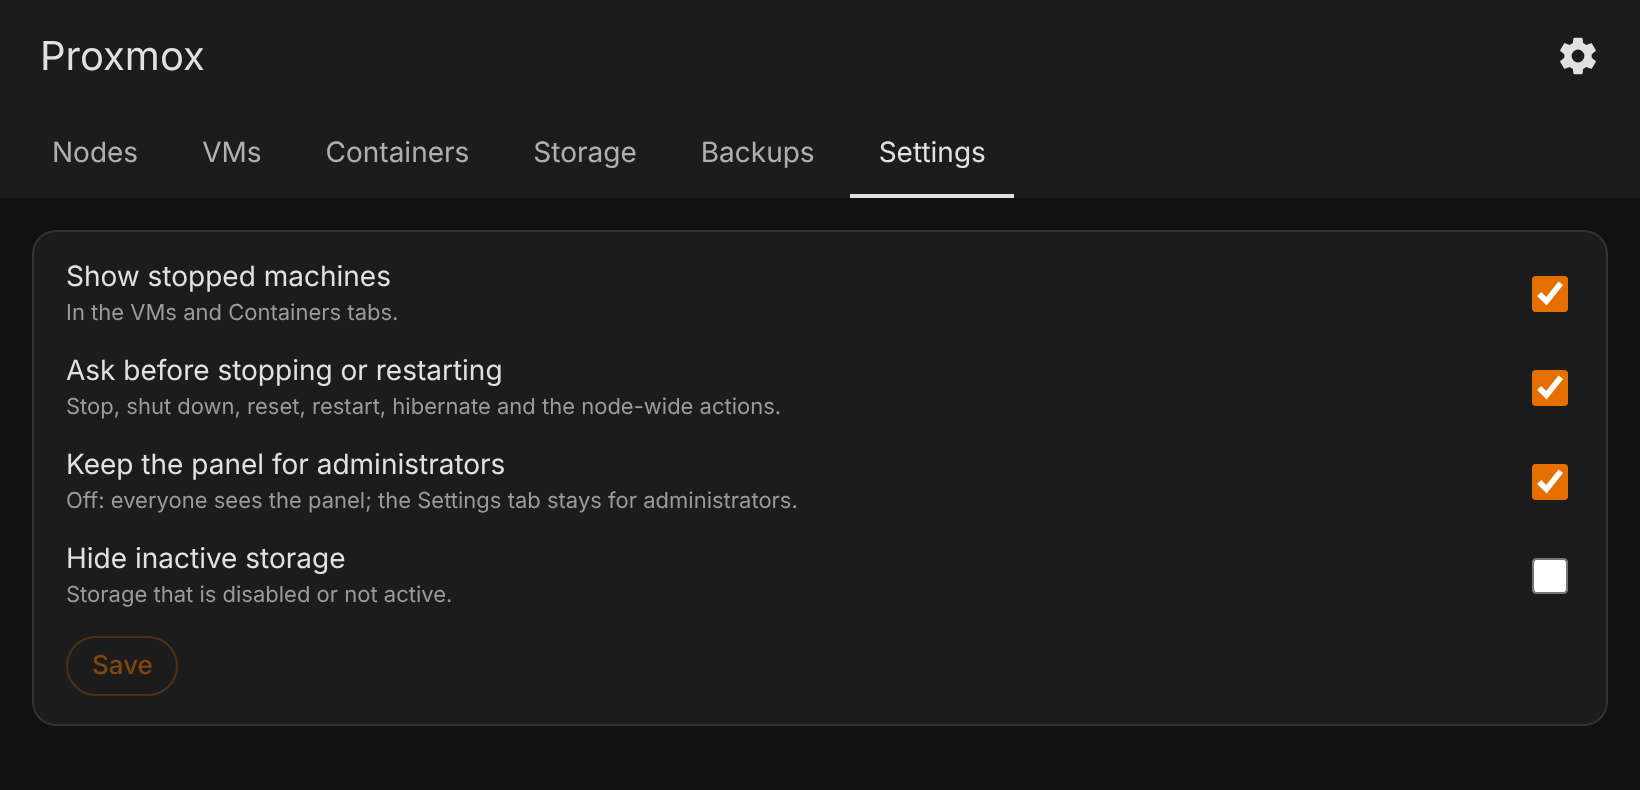
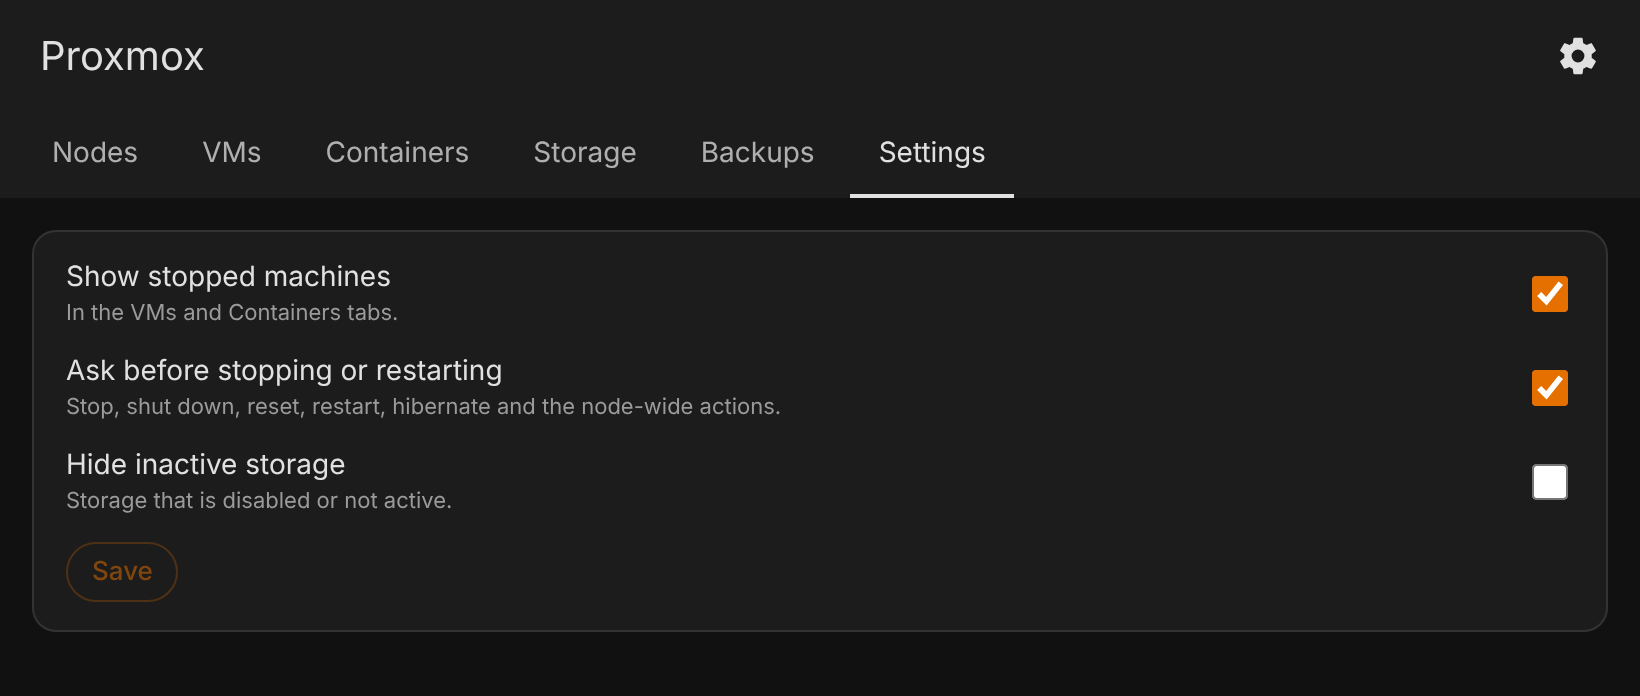
feat: panel for administrators only, always (0.2.0)
The admin_only setting is gone: the panel is registered with require_admin and the inventory command
refuses other users, like the settings commands. A stored admin_only option is no longer read.

Claude-Session: https://claude.ai/code/session_01F4sAmzN16Madqv67q6Pxqj

diff --git a/custom_components/proxmox_panel/frontend/proxmox-panel.js b/custom_components/proxmox_panel/frontend/proxmox-panel.js
@@ -13,12 +13,13 @@
  * - Storage: one gauge per storage, with its active / shared state;
  * - Backups: the last backup of each node (its sensors are disabled by default in the integration) and a manual
  *   snapshot of each machine;
- * - Settings (administrators): stopped machines shown or not, confirmation of the actions that stop or restart,
- *   panel kept for administrators, inactive storage hidden.
+ * - Settings: stopped machines shown or not, confirmation of the actions that stop or restart, inactive storage
+ *   hidden.
+ * The panel is for administrators only (registered with require_admin, its commands too).
  * English is built in; the other languages are loaded on demand from /proxmox_panel/i18n/<lang>.json.
  */
 
-const PROXMOX_PANEL_VERSION = "0.1.0";
+const PROXMOX_PANEL_VERSION = "0.2.0";
 const PROXMOX_PANEL_TABS = ["nodes", "vms", "containers", "storage", "backups", "settings"];
 const PROXMOX_PANEL_LANGS = ["en", "fr", "de", "es", "sr", "sr-Latn", "it", "nl", "pt", "pl", "ro", "da", "sv", "bg", "ru", "uk", "hu", "sk", "cs", "sl", "lv", "el"];
 // Actions that stop or restart something: confirmed first when the setting asks for it
@@ -114,8 +115,6 @@ const PROXMOX_PANEL_EN = {
   s_show_stopped_hint: "In the VMs and Containers tabs.",
   s_confirm: "Ask before stopping or restarting",
   s_confirm_hint: "Stop, shut down, reset, restart, hibernate and the node-wide actions.",
-  s_admin: "Keep the panel for administrators",
-  s_admin_hint: "Off: everyone sees the panel; the Settings tab stays for administrators.",
   s_hide_storage: "Hide inactive storage",
   s_hide_storage_hint: "Storage that is disabled or not active.",
   save: "Save",
@@ -561,8 +560,7 @@ class ProxmoxPanel extends HTMLElement {
   // ── Tabs ──
 
   _tabs() {
-    // Settings only for administrators
-    return PROXMOX_PANEL_TABS.filter((t) => t !== "settings" || this._inv?.admin !== false);
+    return PROXMOX_PANEL_TABS;
   }
 
   _goTab(tab, focus) {
@@ -603,7 +601,7 @@ class ProxmoxPanel extends HTMLElement {
       <div class="toolbar">
         <ha-menu-button></ha-menu-button>
         <span class="grow">${esc(this._t("title"))}</span>
-        ${this._inv?.admin === false ? "" : `<a href="/config/integrations/integration/proxmoxve" title="${esc(this._t("open_integration"))}" aria-label="${esc(this._t("open_integration"))}">${proxmoxPanelIcon("cog")}</a>`}
+        <a href="/config/integrations/integration/proxmoxve" title="${esc(this._t("open_integration"))}" aria-label="${esc(this._t("open_integration"))}">${proxmoxPanelIcon("cog")}</a>
       </div>
       <div class="tabs" role="tablist">${tabs
         .map((tab) => {
@@ -996,7 +994,6 @@ class ProxmoxPanel extends HTMLElement {
     return `<div class="box form">
         ${toggle("show_stopped", "s_show_stopped")}
         ${toggle("confirm_actions", "s_confirm")}
-        ${toggle("admin_only", "s_admin")}
         ${toggle("hide_inactive_storage", "s_hide_storage")}
         <div class="bar-save"><button class="act" data-action="save"${changed ? "" : " disabled"}>${esc(this._t("save"))}</button>
           ${this._saved ? `<span class="note good" role="status">${esc(this._t("saved"))}</span>` : ""}</div></div>`;

diff --git a/custom_components/proxmox_panel/panel.py b/custom_components/proxmox_panel/panel.py
@@ -3,9 +3,10 @@
 The panel (``frontend/proxmox-panel.js``) has six tabs: Nodes, Virtual machines, Containers, Storage, Backups and
 Settings. It reads the states of the Proxmox VE entities and acts by pressing their buttons, so it only needs:
 
-- ``proxmox_panel/inventory``: the nodes, virtual machines, containers and storages with their entity ids
-  (administrators, or everyone when the panel is not kept for administrators);
-- ``proxmox_panel/settings`` / ``proxmox_panel/update_settings``: the settings (options of the entry), administrators.
+- ``proxmox_panel/inventory``: the nodes, virtual machines, containers and storages with their entity ids;
+- ``proxmox_panel/settings`` / ``proxmox_panel/update_settings``: the settings (options of the entry).
+
+The panel and its commands are for administrators only.
 """
 
 from __future__ import annotations
@@ -18,7 +19,6 @@ from homeassistant.config_entries import ConfigEntry
 from homeassistant.core import HomeAssistant, callback
 
 from .const import (
-    CONF_ADMIN_ONLY,
     DEFAULTS,
     DOMAIN,
     PANEL_ICON,
@@ -31,8 +31,9 @@ from .discovery import async_inventory
 
 
 def settings(entry: ConfigEntry | None) -> dict[str, Any]:
-    """The settings, defaults filled in."""
-    return {**DEFAULTS, **(entry.options if entry else {})}
+    """The settings, defaults filled in (an option no longer offered is left out)."""
+    options = entry.options if entry else {}
+    return {key: options.get(key, default) for key, default in DEFAULTS.items()}
 
 
 def _entry(hass: HomeAssistant) -> ConfigEntry | None:
@@ -40,8 +41,8 @@ def _entry(hass: HomeAssistant) -> ConfigEntry | None:
     return entries[0] if entries else None
 
 
-async def async_register_panel(hass: HomeAssistant, entry: ConfigEntry) -> None:
-    """Add Proxmox to the sidebar, for administrators only unless the settings open it to everyone."""
+async def async_register_panel(hass: HomeAssistant) -> None:
+    """Add Proxmox to the sidebar, for administrators only."""
     await panel_custom.async_register_panel(
         hass,
         frontend_url_path=PANEL_PATH,
@@ -49,7 +50,7 @@ async def async_register_panel(hass: HomeAssistant, entry: ConfigEntry) -> None:
         sidebar_title=PANEL_TITLE,
         sidebar_icon=PANEL_ICON,
         module_url=f"{PANEL_URL}?v={VERSION}",
-        require_admin=settings(entry)[CONF_ADMIN_ONLY],
+        require_admin=True,
         config={"version": VERSION},
     )
 
@@ -62,15 +63,10 @@ def async_register_commands(hass: HomeAssistant) -> None:
 
 
 @websocket_api.websocket_command({vol.Required("type"): f"{DOMAIN}/inventory"})
+@websocket_api.require_admin
 @callback
 def _ws_inventory(hass: HomeAssistant, connection: websocket_api.ActiveConnection, msg: dict) -> None:
-    current = settings(_entry(hass))
-    if current[CONF_ADMIN_ONLY] and not connection.user.is_admin:
-        connection.send_error(msg["id"], websocket_api.ERR_UNAUTHORIZED, "Administrators only")
-        return
-    connection.send_result(
-        msg["id"], {**async_inventory(hass).as_dict(), "settings": current, "admin": connection.user.is_admin}
-    )
+    connection.send_result(msg["id"], {**async_inventory(hass).as_dict(), "settings": settings(_entry(hass))})
 
 
 @websocket_api.websocket_command({vol.Required("type"): f"{DOMAIN}/settings"})

diff --git a/tests/test_init.py b/tests/test_init.py
@@ -45,38 +45,35 @@ async def test_inventory_command(hass: HomeAssistant, hass_ws_client):
     assert res["success"]
     assert res["result"]["configured"] is False
     assert res["result"]["settings"] == DEFAULTS
-    assert res["result"]["admin"] is True
 
 
-async def test_inventory_kept_for_administrators(hass: HomeAssistant, hass_ws_client, hass_admin_user):
-    entry = await _setup(hass)
+async def test_administrators_only(hass: HomeAssistant, hass_ws_client, hass_admin_user):
+    # An option of 0.1.0 opened the panel to everyone: it is no longer read
+    await _setup(hass, options={**DEFAULTS, "admin_only": False})
+    assert hass.data["frontend_panels"][PANEL_PATH].require_admin is True
     hass_admin_user.groups = []  # no longer an administrator
     client = await hass_ws_client(hass)
-    await client.send_json_auto_id({"type": f"{DOMAIN}/inventory"})
-    res = await client.receive_json()
-    assert not res["success"] and res["error"]["code"] == "unauthorized"
-
-    hass.config_entries.async_update_entry(entry, options={**DEFAULTS, "admin_only": False})
-    await hass.async_block_till_done()
-    await client.send_json_auto_id({"type": f"{DOMAIN}/inventory"})
-    res = await client.receive_json()
-    assert res["success"] and res["result"]["admin"] is False
+    for command in ("inventory", "settings", "update_settings"):
+        await client.send_json_auto_id({"type": f"{DOMAIN}/{command}"})
+        res = await client.receive_json()
+        assert not res["success"] and res["error"]["code"] == "unauthorized", command
 
 
-async def test_update_settings_registers_the_panel_again(hass: HomeAssistant, hass_ws_client):
-    entry = await _setup(hass)
+async def test_update_settings(hass: HomeAssistant, hass_ws_client):
+    entry = await _setup(hass, options={**DEFAULTS, "admin_only": False})
     client = await hass_ws_client(hass)
-    await client.send_json_auto_id({"type": f"{DOMAIN}/update_settings", "admin_only": False, "show_stopped": False})
+    await client.send_json_auto_id({"type": f"{DOMAIN}/update_settings", "show_stopped": False})
     res = await client.receive_json()
     assert res["success"] and res["result"]["ok"]
     await hass.async_block_till_done()
-    assert entry.options["admin_only"] is False and entry.options["show_stopped"] is False
-    assert hass.data["frontend_panels"][PANEL_PATH].require_admin is False
+    assert dict(entry.options) == {**DEFAULTS, "show_stopped": False}
+    assert hass.data["frontend_panels"][PANEL_PATH].require_admin is True
 
     await client.send_json_auto_id({"type": f"{DOMAIN}/settings"})
     res = await client.receive_json()
-    assert res["result"]["settings"]["show_stopped"] is False
+    assert res["result"]["settings"] == {**DEFAULTS, "show_stopped": False}
 
-    await client.send_json_auto_id({"type": f"{DOMAIN}/update_settings", "unknown": True})
-    res = await client.receive_json()
-    assert not res["success"]
+    for bad in ({"admin_only": False}, {"unknown": True}):
+        await client.send_json_auto_id({"type": f"{DOMAIN}/update_settings", **bad})
+        res = await client.receive_json()
+        assert not res["success"], bad

diff --git a/custom_components/proxmox_panel/const.py b/custom_components/proxmox_panel/const.py
@@ -1,7 +1,7 @@
 """Constants for the Proxmox Panel integration."""
 
 DOMAIN = "proxmox_panel"
-VERSION = "0.1.0"
+VERSION = "0.2.0"
 
 # The core Proxmox VE integration, whose devices and entities the panel shows
 PROXMOX_DOMAIN = "proxmoxve"
@@ -17,14 +17,13 @@ PANEL_TITLE = "Proxmox"
 PANEL_ICON = "proxmox_panel:logo"
 ICONS_URL = f"{URL_BASE}/proxmox-icons.js"
 
-# Settings (options of the config entry), edited in the panel's Settings tab
+# Settings (options of the config entry), edited in the panel's Settings tab. The panel is always for
+# administrators only: no setting opens it to other users.
 CONF_SHOW_STOPPED = "show_stopped"
 CONF_CONFIRM_ACTIONS = "confirm_actions"
-CONF_ADMIN_ONLY = "admin_only"
 CONF_HIDE_INACTIVE_STORAGE = "hide_inactive_storage"
 DEFAULTS = {
     CONF_SHOW_STOPPED: True,
     CONF_CONFIRM_ACTIONS: True,
-    CONF_ADMIN_ONLY: True,
     CONF_HIDE_INACTIVE_STORAGE: False,
 }

diff --git a/custom_components/proxmox_panel/__init__.py b/custom_components/proxmox_panel/__init__.py
@@ -35,9 +35,8 @@ async def async_setup(hass: HomeAssistant, config: ConfigType) -> bool:
 
 
 async def async_setup_entry(hass: HomeAssistant, entry: ConfigEntry) -> bool:
-    """Add the panel to the sidebar; settings changes register it again (who may open it)."""
-    await async_register_panel(hass, entry)
-    entry.async_on_unload(entry.add_update_listener(_async_options_updated))
+    """Add the panel to the sidebar (administrators only)."""
+    await async_register_panel(hass)
     return True
 
 
@@ -45,8 +44,3 @@ async def async_unload_entry(hass: HomeAssistant, entry: ConfigEntry) -> bool:
     """Remove the panel from the sidebar."""
     frontend.async_remove_panel(hass, PANEL_PATH)
     return True
-
-
-async def _async_options_updated(hass: HomeAssistant, entry: ConfigEntry) -> None:
-    frontend.async_remove_panel(hass, PANEL_PATH)
-    await async_register_panel(hass, entry)

diff --git a/README.md b/README.md
@@ -23,7 +23,8 @@ Home Assistant integration that adds a **Proxmox** panel to the sidebar, on top 
 - **Storage**: one gauge per storage (green, amber from 75 %, red from 90 %), with used, free and total space, and its active and shared state
 - **Backups**: the last backup of each node, how long it took and whether it failed, and a manual **Snapshot** of each virtual machine and container
 - **Confirmation** before the actions that stop or restart something (stop, shut down, reset, restart, hibernate, node-wide actions), at the top of the list
-- **Settings** (administrators): stopped machines shown or not, the confirmation, the panel kept for administrators or opened to everyone (the Settings tab stays for administrators), inactive storage hidden
+- **Settings**: stopped machines shown or not, the confirmation, inactive storage hidden
+- **Administrators only**: the panel and its commands are kept for administrators
 - The **Proxmox logo** as the sidebar icon
 - Light and dark themes, phones and desktops, 22 languages
 - No connection to Proxmox of its own: the panel reads the entities of the Proxmox VE integration and presses its buttons, with the permissions you gave it
@@ -66,7 +67,7 @@ Then **Settings → Devices & services → Add integration → Proxmox Panel**: 
 
 ## Panel
 
-The **Proxmox** entry of the sidebar, at `/proxmox` (each tab has its own address: `/proxmox/vms`, `/proxmox/containers`, `/proxmox/storage`, `/proxmox/backups`, `/proxmox/settings`). It is kept for administrators unless the settings open it to everyone.
+The **Proxmox** entry of the sidebar, at `/proxmox` (each tab has its own address: `/proxmox/vms`, `/proxmox/containers`, `/proxmox/storage`, `/proxmox/backups`, `/proxmox/settings`). It is for administrators only: other users do not see it in the sidebar, and its commands refuse them.
 
 | Light | Dark |
 |---|---|
@@ -84,7 +85,6 @@ The **Proxmox** entry of the sidebar, at `/proxmox` (each tab has its own addres
 |---|---|---|
 | Show stopped machines | on | Off: the VMs and Containers tabs list the running and suspended machines only, and say how many are hidden |
 | Ask before stopping or restarting | on | Stop, shut down, reset, restart, hibernate and the node-wide actions wait for a confirmation |
-| Keep the panel for administrators | on | Off: every user sees the panel and can use its actions; the Settings tab stays for administrators |
 | Hide inactive storage | off | Storage that is disabled or not active is left out of the Storage tab |
 
 ## How it works

diff --git a/CHANGELOG.md b/CHANGELOG.md
@@ -1,5 +1,10 @@
 # Changelog
 
+## 0.2.0 - 2026-11-12
+
+### Changes
+- The panel is for **administrators only**, always: the *Keep the panel for administrators* setting is gone, the panel is registered for administrators and its commands refuse other users. An installation that had opened it to everyone gets it back for administrators only after the update.
+
 ## 0.1.0 - 2026-11-12
 
 ### Features
